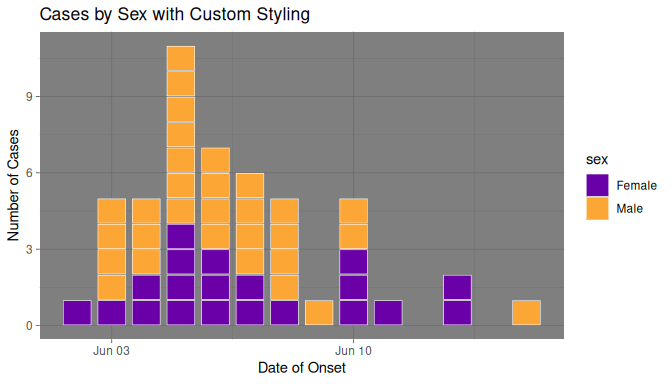
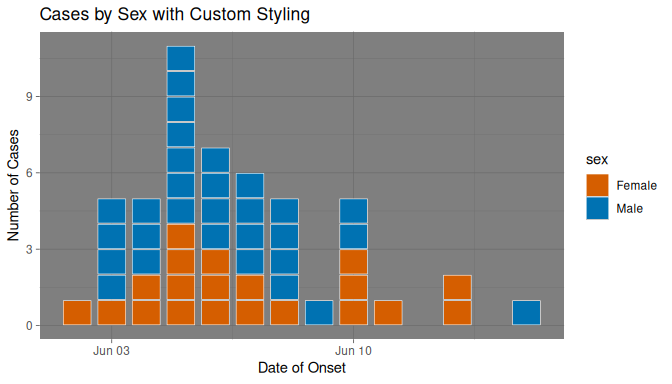
Re-build README.Rmd

diff --git a/README.md b/README.md
@@ -104,7 +104,7 @@ ggplot(cases, aes(x = onset_date, fill = age_group)) +
   theme_bw()
 ```
 
-<img src="man/figures/README-colored-epicurve-1.png" alt="" width="100%" />
+<img src="man/figures/README-coloured-epicurve-1.png" alt="" width="100%" />
 
 ### Faceted Analysis
 
@@ -183,7 +183,7 @@ ggplot(cases, aes(x = onset_date, fill = sex)) +
     colour = "white",
     linewidth = 0.2
   ) +
-  scale_fill_viridis_d(option = "plasma", begin = 0.2, end = 0.8) +
+  scale_fill_manual(values = c("Male" = "#0072B2", "Female" = "#D55E00")) +
   labs(
     title = "Cases by Sex with Custom Styling",
     x = "Date of Onset",
